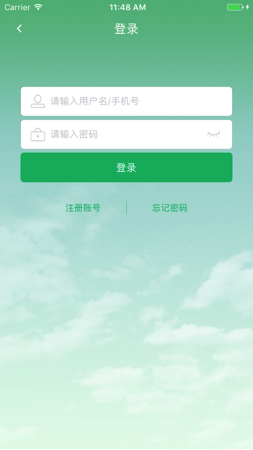
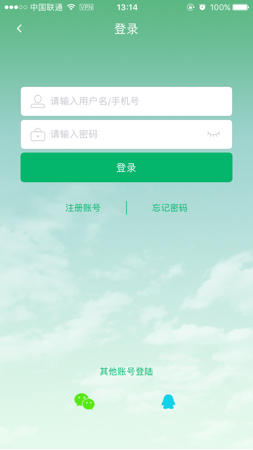
readme文档 应用功能介绍

diff --git a/README.md b/README.md
@@ -1,3 +1,72 @@
 # YSRun
 
-待完成。
+
+## 易瘦跑步 iOS客户端
+
+
+一款记录跑步数据的App。
+
+### 界面及功能
+
+#### 主界面
+
+显示总体数据，如运动次数、距离等。可连接发送心率数据的蓝牙设备，使用标准蓝牙协议，连接后心率数据实时显示，并作为运动过程中的数据参考。
+
+![image1](./shot/1.jpg)
+
+#### 运动界面
+
+实时显示当前运动时间、距离、平均配速。地图展示运动路径。操作按钮可暂停或结束当前运动。
+
+![image3](./shot/3.jpg)
+![image2](./shot/2.jpg)
+
+#### 运动完成界面
+
+运动完成后显示本次记录信息并进行相应评分。点击地图右上角按钮可查看本次运动的详细信息。
+
+![image4](./shot/4.jpg)
+
+#### 运动记录界面
+
++	**轨迹**：运动的路径，日期信息，所用时间
++	**详情**：数据详情
++	**配速**：每公里配速及平均配速
++ 	**心率**：运动过程中的心率数据及区间分析
+
+![image5](./shot/5.jpg)
+![image6](./shot/6.jpg)
+![image7](./shot/7.jpg)
+![image8](./shot/8.jpg)
+
+#### 日历界面
+
+显示每天运动情况，查看某一天的运动数据。
+
+![image9](./shot/9.jpg)
+
+#### 用户界面
+
+记录用户相关信息，登录后运动数据可同步到云端进行备份。
+
+![image10](./shot/10.jpg)
+
+
+#### 设置界面
+
+可关闭主界面的心率显示。设置运动过程中的语音提示。
+
+![image11](./shot/11.jpg)
+
+#### 登录和注册界面
+
+支持手机注册登录和第三方登录。注册时通过手机验证码验证注册。
+
+![image12](./shot/12.jpg)
+![image13](./shot/13.jpg)
+
+### 其他
+
+下载完项目直接XCode打开工程文件运行即可。
+
+**PS.** 服务器已过期，和网络相关的代码应该都已失效。
